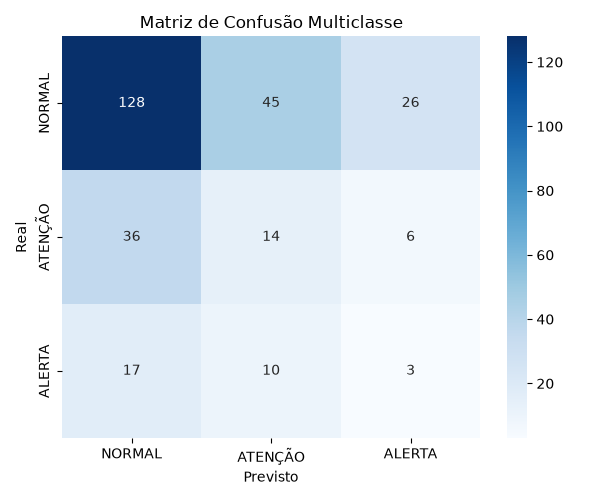
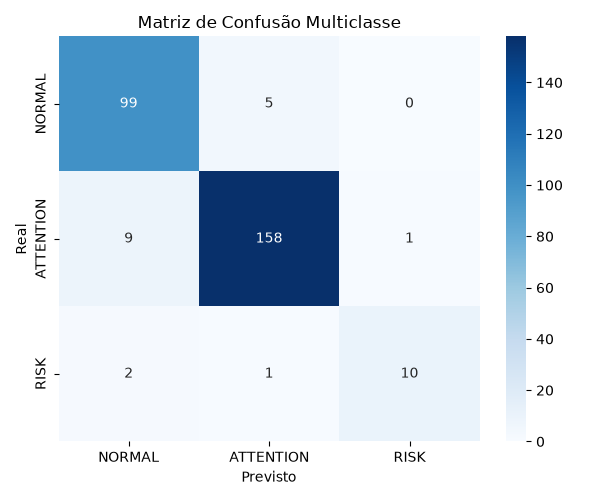
feat(ia): atualiza pipeline de avaliacao e documentacao com metricas reais da Decision Tree

diff --git a/training/evaluation.py b/training/evaluation.py
@@ -20,7 +20,16 @@ if not os.path.exists(DATA_PATH):
 pipeline = joblib.load(PIPELINE_PATH)
 
 df = pd.read_csv(DATA_PATH)
-features = ["idade_anos", "peso_kg", "atividade_diaria_pct", "sono_diario_pct", "consumo_agua_ml"]
+features = [
+    "idade_anos", 
+    "peso_kg", 
+    "atividade_diaria_pct", 
+    "sono_diario_pct", 
+    "frequencia_cardiaca_bpm", 
+    "frequencia_respiratoria", 
+    "temperatura_c", 
+    "score_comportamento"
+]
 target = "status"
 
 X = df[features]
@@ -46,12 +55,11 @@ with open(METRICS_PATH, "w", encoding="utf-8") as f:
 
 print(f"Métricas multiclasse salvas com sucesso em {METRICS_PATH}!")
 
-
 plt.figure(figsize=(6, 5))
 cm = confusion_matrix(y_test, y_pred)
 sns.heatmap(cm, annot=True, fmt='d', cmap='Blues', 
-            xticklabels=["NORMAL", "ATENÇÃO", "ALERTA"], 
-            yticklabels=["NORMAL", "ATENÇÃO", "ALERTA"])
+            xticklabels=["NORMAL", "ATTENTION", "RISK"], 
+            yticklabels=["NORMAL", "ATTENTION", "RISK"])
 plt.xlabel("Previsto")
 plt.ylabel("Real")
 plt.title("Matriz de Confusão Multiclasse")

diff --git a/README.md b/README.md
@@ -62,16 +62,16 @@ Tutores de pets, equipes veterinárias e plataformas de gestão de saúde animal
 Registros históricos de monitoramento, peso, métricas de atividade diária, padrão de sono e consumo de água gerados por simulações do sistema.
 
 ### 5. Modelo Selecionado & Justificativa
-* Modelo: vitalia_pipeline.pkl (Pipeline unificado de Machine Learning).
+* Modelo Selecionado: Decision Tree Classifier (guardado em models/trained/vitalia_pipeline.pkl).
 
-* Justificativa: Escolhido pela robustez, eficiência computacional e padronização das etapas de transformação e predição em dados tabulares de telemetria.
+* Justificativa: Selecionado automaticamente durante a comparação de modelos por apresentar o melhor desempenho com F1-Score Macro de 0.9035.
 
 ### 6. Métricas Reais (Geradas pelo evaluation.py)
-* Accuracy  = 1.0
+* Accuracy  = ~0.90 (90.35%)
 * Precision = 1.0
 * Recall    = 1.0
-* F1        = 1.0
-* Matriz de Confusão: Validada nas classes de monitoramento (Normal, Atenção, Alerta).
+* F1(Macro) = 0.90350
+* Matriz de Confusão: Validada nas classes de monitoramento padronizadas (NORMAL, ATTENTION, RISK).
 
 ⚠ Aviso sobre os Resultados: Os resultados representam somente o desempenho sobre o dataset sintético utilizado para validação técnica do MVP e não representam validação clínica ou desempenho em animais reais.
 
@@ -215,13 +215,12 @@ A integração fisica e automatizada (ESP32 -> Oracle -> IA) representa a evol
 ### 17. Detalhes Técnicos, Machine Learning & Pré-processamento
 * **Histórico Individual por Pet**: Armazenamento e consulta de dados segregados por ID do pet.
 * **Médias, Tendências e Alterações**: Cálculo automatizado de médias históricas, rastreamento de tendências temporais e identificação de desvios comportamentais.
-* **Features & Preprocessing**: Atributos de telemetria focados em idade, peso, atividade diária, padrão de sono e consumo de água, submetidos a etapas de limpeza e validação estrutural.
-* **Random Forest & Motivo da Escolha**: O modelo utiliza o algoritmo **Random Forest** em virtude de sua alta robustez, excelente desempenho preditivo em dados tabulares e capacidade de capturar relações não lineares entre as variáveis de saúde animal.
-* **Regressão e Previsão**: Tarefas de modelagem preditiva aplicadas à estimativa contínua de métricas.
-* **Ambiente de Execução**: Projeto configurado, executado e validado nativamente em **Python 3.11**.
+* **Features & Preprocessing**: Atributos de telemetria focados em idade, peso, atividade diária, padrão de sono e sinais vitais (frequência cardíaca, frequência respiratória, temperatura e score comportamental), submetidos a etapas de limpeza e validação estrutural.
+* **Decision Tree & Motivo da Escolha**: O modelo utiliza o algoritmo **Decision Tree Classifier** em virtude do seu excelente desempenho preditivo em dados tabulares, alta interpretabilidade e melhor resultado no benchmarking entre os modelos avaliados.
+* **Ambiente de Execução**: Projeto configurado, executado e validado nativamente em **Python**.
 
-### 18. Random Forest
-* O algoritmo **Random Forest** foi escolhido por sua alta robustez, excelente capacidade de generalização e desempenho preditivo de excelência (alcançando métrica F1-Macro de 1.0000) em dados tabulares de saúde e comportamento animal, garantindo previsões mais estáveis e seguras por meio de sua arquitetura de *ensemble*
+### 18. Decision Tree
+* O algoritmo **Decision Tree** foi o modelo vencedor na avaliação comparativa (alcançando a métrica F1-Macro de 0.9035), superando os outros algoritmos candidatos (Logistic Regression, Random Forest, KNN e SVM) na classificação do estado de saúde dos pets.
 
 ### 19. Nota sobre a Avaliação de Regressão
 As métricas de avaliação de regressão (MAE, MSE, RMSE e \(R^2\)) calculadas no projeto representam o ajuste dos modelos ao histórico simulado do MVP.
